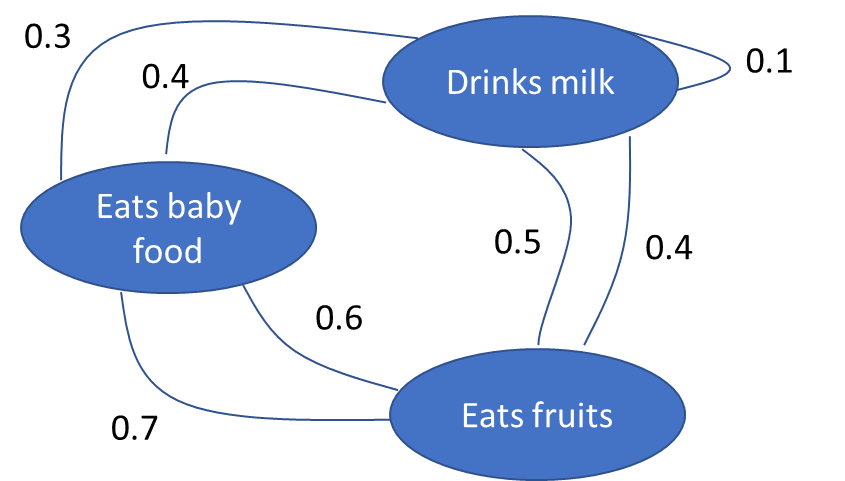
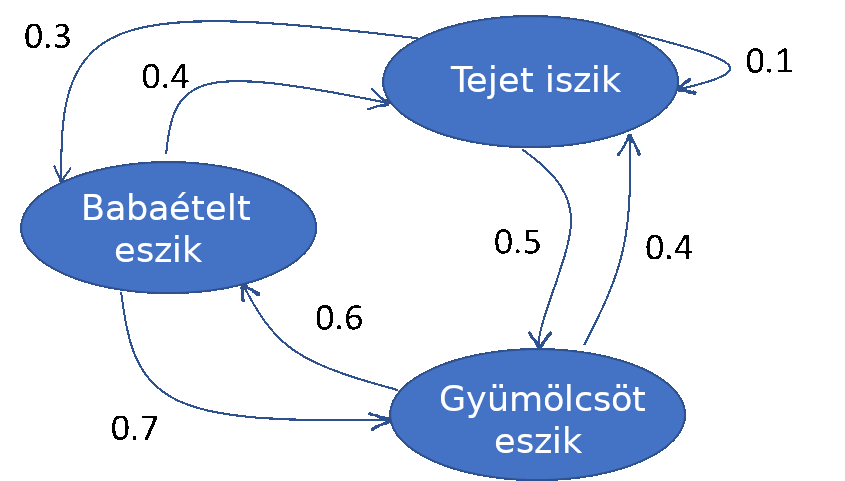
javítás

diff --git a/content/irodalom.tex b/content/irodalom.tex
@@ -165,7 +165,7 @@ A matematikában a Markov-lánc egy olyan diszkrét sztochasztikus folyamatot je
 %----------------------------------------------------------------------------
 \subsubsection{Grafikus modell}
 
-A grafikus valószínűségi modell egy grafikus ábrázolás, amivel véletlen változók közötti feltételes valószínűséget lehet kifejezni. A grafikus modellnek két fő komponense van: csúcsok és élek. A csúcsok a véletlen változó állapotát jelzik, míg az élek az átalakulás irányát. Az ilyen gráfoknak két fő típusa van: irányított és irányítatlan. A \ref{fig:graph}. ábrán látható példán egy csecsemő táplálkozási szokásainak Markov folyamatának irányítatlan grafikus modelljét láthatjuk. A baba következő étkezésének kiválasztása kizárólag attól függ, hogy mit eszik most, és nem attól, amit korábban evett.
+A grafikus valószínűségi modell egy grafikus ábrázolás, amivel véletlen változók közötti feltételes valószínűséget lehet kifejezni. A grafikus modellnek két fő komponense van: csúcsok és élek. A csúcsok a véletlen változó állapotát jelzik, míg az élek az átalakulás irányát. Az ilyen gráfoknak két fő típusa van: irányított és irányítatlan. A \ref{fig:graph}. ábrán látható példán egy csecsemő táplálkozási szokásainak Markov folyamatának irányított grafikus modelljét láthatjuk. A baba következő étkezésének kiválasztása kizárólag attól függ, hogy mit eszik most, és nem attól, amit korábban evett.
 
 \begin{figure}[ht]
 	\centering
